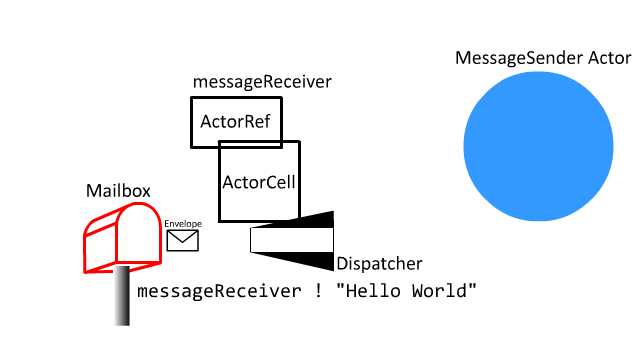
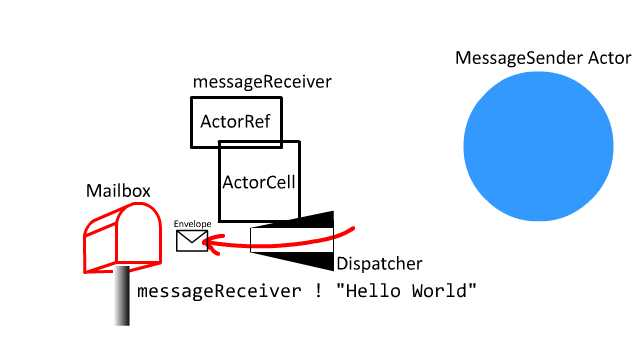
local minimal sender almost complete

Changed region(s): [[0.25, 0.6111, 0.5625, 0.7333]]

diff --git a/src/pages/local-minimal-sender/index.md b/src/pages/local-minimal-sender/index.md
@@ -9,55 +9,154 @@ You can find the code and instruction to run the example at [GitHub](https://git
 
 <iframe width="640" height="360" src="https://www.youtube.com/embed/SKOpmttB47A" frameborder="0" allow="autoplay; encrypted-media" allowfullscreen></iframe>
 
+This is about how Akka sends a message from one Actor to another **locally** (i.e. within the same JVM). As in the [`Serialization` part](https://doc.akka.io/docs/akka/2.5/serialization.html?language=scala) of the official doc:
+
+> The messages that Akka actors send to each other are JVM objects (e.g. instances of Scala case classes). Message passing between actors that live on the same JVM is straightforward. It is simply done via reference passing. 
+
+Refer to the remote sender article, which I will write up soon, when sending a message to a remote actor on a different JVM.
 
 ## Workflow 
-<iframe width="640" height="360" src="https://www.youtube.com/embed/LbuLAtN20HA" frameborder="0" allow="autoplay; encrypted-media" allowfullscreen></iframe>
+
+[`MessageSender`](https://github.com/richardimaoka/resources/blob/master/local-minimal/src/main/scala/example/Main.scala#L14L24) sends messages "Hello World", "Hello Universe" and "Hello Galaxy" to the `messageReceiver` actor.
 
 ```scala
-//ForkJoinWorkerThread.java in akka.dispatch.forkjoin
-  public void run() {...} 
-```
+class MessageSender(messageReceiver: ActorRef) extends Actor {
+  override def preStart(): Unit = {
+    val messages = List(
+      "Hello World",
+      "Hello Universe",
+      "Hello Galaxy"
+    )
 
-```scala
-//abstract class Mailbox
-  @tailrec private final def processMailbox(
-    ...
-    val next = dequeue() //  def dequeue(): Envelope = messageQueue.dequeue()
-    ...
-    actor invoke next
-    ...
-    processMailbox(...)
-  }
-```
-
-```scala
-//class ActorCell
-  final def invoke(messageHandle: Envelope): Unit
-```
-
-```scala
-//class ActorCell
-  def actor: Actor = _actor // return type is `Actor`
-  ...
-  final def receiveMessage(msg: Any): Unit = actor.aroundReceive(behaviorStack.head, msg)
-```
-
-```scala
-//class ActorCell
-  @InternalApi
-  protected[akka] def aroundReceive(receive: Actor.Receive, msg: Any): Unit = {
-    // optimization: avoid allocation of lambda
-    if (receive.applyOrElse(msg, Actor.notHandledFun).asInstanceOf[AnyRef] eq Actor.NotHandled) {
-      unhandled(msg)
+    for(msg <- messages) {
+      messageReceiver ! msg
     }
   }
+  ....
+}
+```
+
+The `preStart` method is a [lifecycle method](https://doc.akka.io/docs/akka/2.5/guide/tutorial_1.html?language=scala#the-actor-lifecycle) provided by Akka Actor.
+
+The below is what's inside the main method, which initializes the receiver and the sender.
+
+```scala
+val system = ActorSystem("exampleSystem")
+
+val receiver = system.actorOf(Props[MessageReceiver], "receiver")
+system.actorOf(MessageSender.props(receiver), "sender")
+```
+
+As in the `preStart` method of `MessageSender`, the first message to be sent is,
+
+```scala
+messageReceiver ! "Hello World",
+```
+
+![message](./message.jpg)
+
+where the [`!` method](https://github.com/akka/akka/blob/v2.5.9/akka-actor/src/main/scala/akka/actor/ActorRef.scala#L400) is a method of `LocalActorRef`.
+
+```scala
+override def !(message: Any)
+  (implicit sender: ActorRef = Actor.noSender): Unit =
+    actorCell.sendMessage(message, sender)
+```
+
+Above `actorCell` is an instance of [`ActorCell`](https://github.com/akka/akka/blob/v2.5.9/akka-actor/src/main/scala/akka/actor/ActorCell.scala#L370), which implements [`Cell` trait](https://github.com/akka/akka/blob/v2.5.9/akka-actor/src/main/scala/akka/actor/ActorCell.scala#L220), and the `Cell` trait has the following [`sendMessage`](https://github.com/akka/akka/blob/v2.5.9/akka-actor/src/main/scala/akka/actor/ActorCell.scala#L290L291).
+
+```scala
+final def sendMessage(
+  message: Any, 
+  sender: ActorRef
+): Unit =
+  sendMessage(Envelope(message, sender, system))
+```
+
+Here you see an [`Envelope`](https://github.com/akka/akka/blob/v2.5.9/akka-actor/src/main/scala/akka/dispatch/AbstractDispatcher.scala#L23) which encapsulates `message` and `sender`
+
+![envelope](./envelope.jpg)
+
+```scala
+case class Envelope(val message: Any, val sender: ActorRef)
+```
+
+To illustrate the workflow so far up to the `sendMessage`:
+
+![sendMessage](./sendMessage.jpg)
+
+The `sendMessage` method of the `Cell` trait (`ActorCell`) calls the [`sendMessage` method](https://github.com/akka/akka/blob/v2.5.9/akka-actor/src/main/scala/akka/actor/dungeon/Dispatch.scala#L136) of the `Dispatch` trait.
+
+```scala
+def sendMessage(msg: Envelope): Unit =
+  try {
+    ...
+    dispatcher.dispatch(this, msg)
+  } 
+```
+
+([The concept of `Dispatcher`](https://doc.akka.io/docs/akka/2.5/dispatchers.html?language=scala) might be unfamiliar to you and it is probably difficult to understand. I will write another article later to illustrate `Dispatcher` in more detail, but for now, you can assume dispatcher is, as the meaning of the word says, "sender" of messages.)
+
+There are two distinct `Dispatch` and `Dispatcher` traits in akka. The `Dispatch` trait has a reference to `dispatch: Dispatcher` and `Dispatcher`'s [dispatch](https://github.com/akka/akka/blob/v2.5.9/akka-actor/src/main/scala/akka/dispatch/Dispatcher.scala#L52L56) method is as follows:
+
+
+```scala
+def dispatch(
+  receiver: ActorCell,
+  invocation: Envelope
+): Unit = {
+  val mbox = receiver.mailbox
+  mbox.enqueue(receiver.self, invocation)
+  registerForExecution(mbox, true, false)
+}
+```
+
+![dispatcher](./dispatcher.jpg)
+
+[`Mailbox`](https://github.com/akka/akka/blob/v2.5.9/akka-actor/src/main/scala/akka/dispatch/Mailbox.scala#L85) has the following `enqueue` method
+
+```scala
+def enqueue(receiver: ActorRef, msg: Envelope): Unit = messageQueue.enqueue(receiver, msg)
+```
+
+![enqueue](./enqueue.jpg)
+
+The `messageQueue` is type of [`MessageQueue`](https://github.com/akka/akka/blob/v2.5.9/akka-actor/src/main/scala/akka/dispatch/Mailbox.scala#L614L618) class which is defined for [each different `Mailbox` type](https://doc.akka.io/docs/akka/2.5/mailboxes.html?language=scala#mailboxes). The one for the default `UnboundedMailbox` is:
+
+```scala
+object UnboundedMailbox {
+  class MessageQueue extends ConcurrentLinkedQueue[Envelope] with UnboundedQueueBasedMessageQueue {
+    final def queue: Queue[Envelope] = this
+  }
+}
+```
+
+Coming back to the `dispatch` method of `Dispatcher`, it has [registerForExecution](https://github.com/akka/akka/blob/v2.5.9/akka-actor/src/main/scala/akka/dispatch/Dispatcher.scala#L115) as follows:
+
+```scala
+def registerForExecution(mbox: Mailbox, ...): Boolean = {
+  ...
+  executorService execute mbox
+  ...
+}
+```
+
+Since [`Mailbox`](https://github.com/akka/akka/blob/v2.5.9/akka-actor/src/main/scala/akka/dispatch/Mailbox.scala#L56L57) is defined as `ForkJoinTask`, the execution (i.e. processing) of `Mailbox` is run on a different `Thread`, which will be covered in [the next article](../local-minimal-receiver)
+
+```scala
+abstract class Mailbox(val messageQueue: MessageQueue)
+  extends ForkJoinTask[Unit] 
+  with SystemMessageQueue 
+  with Runnable {
+    ...
+}
 ```
 
 ## Instruction to run the example
 ```
 > git clone https://github.com/richardimaoka/resources.git
 > cd resources
-> cd serialize-minimal
+> cd local-minimal
 > sbt
 > runMain example.Main
 ```
@@ -68,19 +167,22 @@ Some `println` calls are inserted in the [complete example at GitHub](https://gi
 
 Thread names are shown as [exampleSystem-akka.actor.default-dispatcher-3] and [...-4].
 
-
 ```
 [info] Running example.Main
 provider = local
-[exampleSystem-akka.actor.default-dispatcher-3] sending message Hello World to Actor[akka://exampleSystem/user/receiver#607760908]
-[exampleSystem-akka.actor.default-dispatcher-3] sending message Hello Universe to Actor[akka://exampleSystem/user/receiver#607760908]
-[exampleSystem-akka.actor.default-dispatcher-4] EchoActor: received message = Hello World
-[exampleSystem-akka.actor.default-dispatcher-3] sending message Hello Galaxy to Actor[akka://exampleSystem/user/receiver#607760908]
-[exampleSystem-akka.actor.default-dispatcher-4] EchoActor: received message = Hello Universe
-[exampleSystem-akka.actor.default-dispatcher-4] EchoActor: received message = Hello Galaxy
-[success] Total time: 9 s, completed Jan 29, 2018 6:44:14 AM
+[exampleSystem-akka.actor.default-dispatcher-5] sending message Hello World to Actor[akka://exampleSystem/user/receiver#-846959521]
+[exampleSystem-akka.actor.default-dispatcher-5] sending message Hello Universe to Actor[akka://exampleSystem/user/receiver#-846959521]
+[exampleSystem-akka.actor.default-dispatcher-2] EchoActor: received message = Hello World
+[exampleSystem-akka.actor.default-dispatcher-5] sending message Hello Galaxy to Actor[akka://exampleSystem/user/receiver#-846959521]
+[exampleSystem-akka.actor.default-dispatcher-2] EchoActor: received message = Hello Universe
+[exampleSystem-akka.actor.default-dispatcher-2] EchoActor: received message = Hello Galaxy
+[success] Total time: 7 s, completed Jan 30, 2018 6:16:46 AM
 ```
 
 ## References 
 
-- Official documentation of Akka serialization at https://doc.akka.io/docs/akka/2.5/serialization.html
+- Official documentation of Akka Actor at https://doc.akka.io/docs/akka/2.5/actors.html
+- Official documentation of Akka Dispatcher at https://doc.akka.io/docs/akka/2.5/dispatchers.html
+- Official documentation of Akka lifecycle at https://doc.akka.io/docs/akka/current/actors.html$actor-lifecycle
+- Official documentation of Akka Mailbox at https://doc.akka.io/docs/akka/2.5/mailboxes.html?language=scala#mailboxes)
+- Official documentation of Akka location transparency at https://doc.akka.io/docs/akka/current/general/remoting.html#location-transparency

diff --git a/src/pages/remote-minimal-receiver/index.md b/src/pages/remote-minimal-receiver/index.md
@@ -1,6 +1,7 @@
 ---
-title: Serializer minimal example
+title: Remote minimal receiver example
 date: "2018-01-23T01:31:00.000+0900"
+published: false
 ---
 
 ## Overview

diff --git a/src/pages/remote-minimal-sender.md b/src/pages/remote-minimal-sender.md
@@ -1,5 +1,5 @@
 ---
-title: Serializer minimal example
+title: Remote minimal sender example
 date: "2018-01-23T01:31:00.000+0900"
 ---
 
